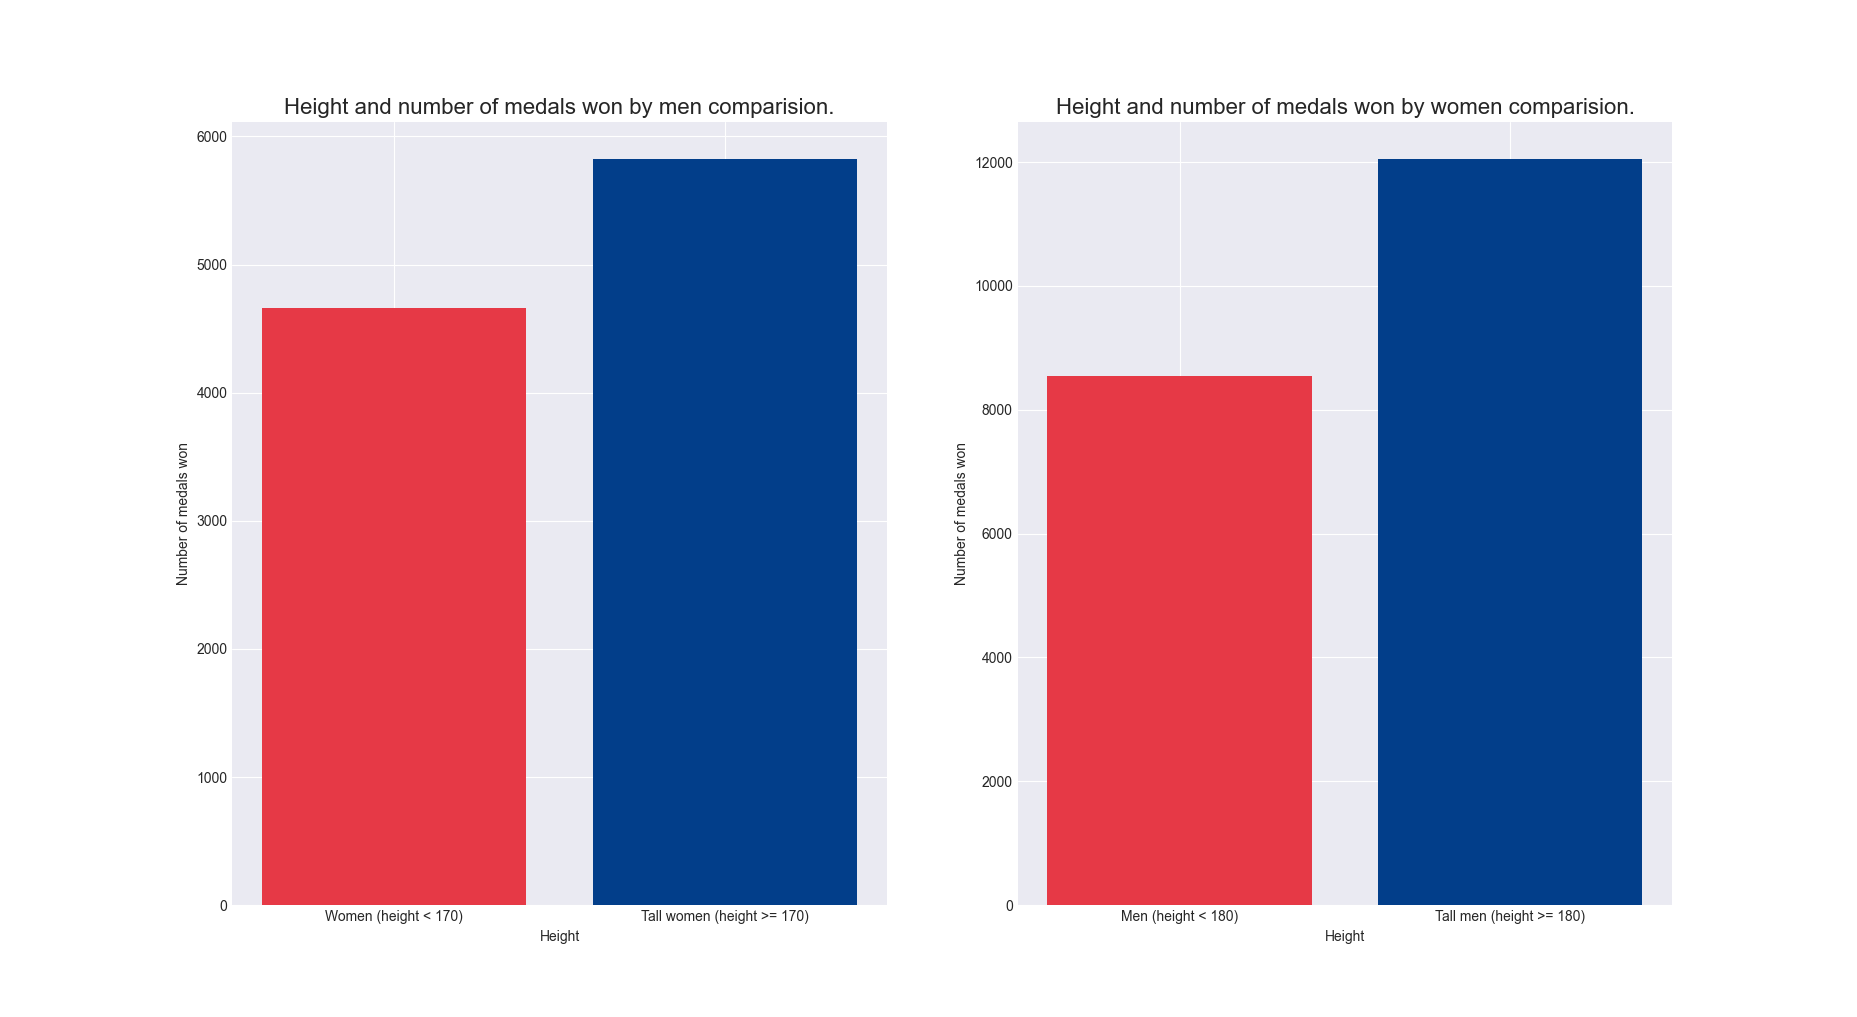
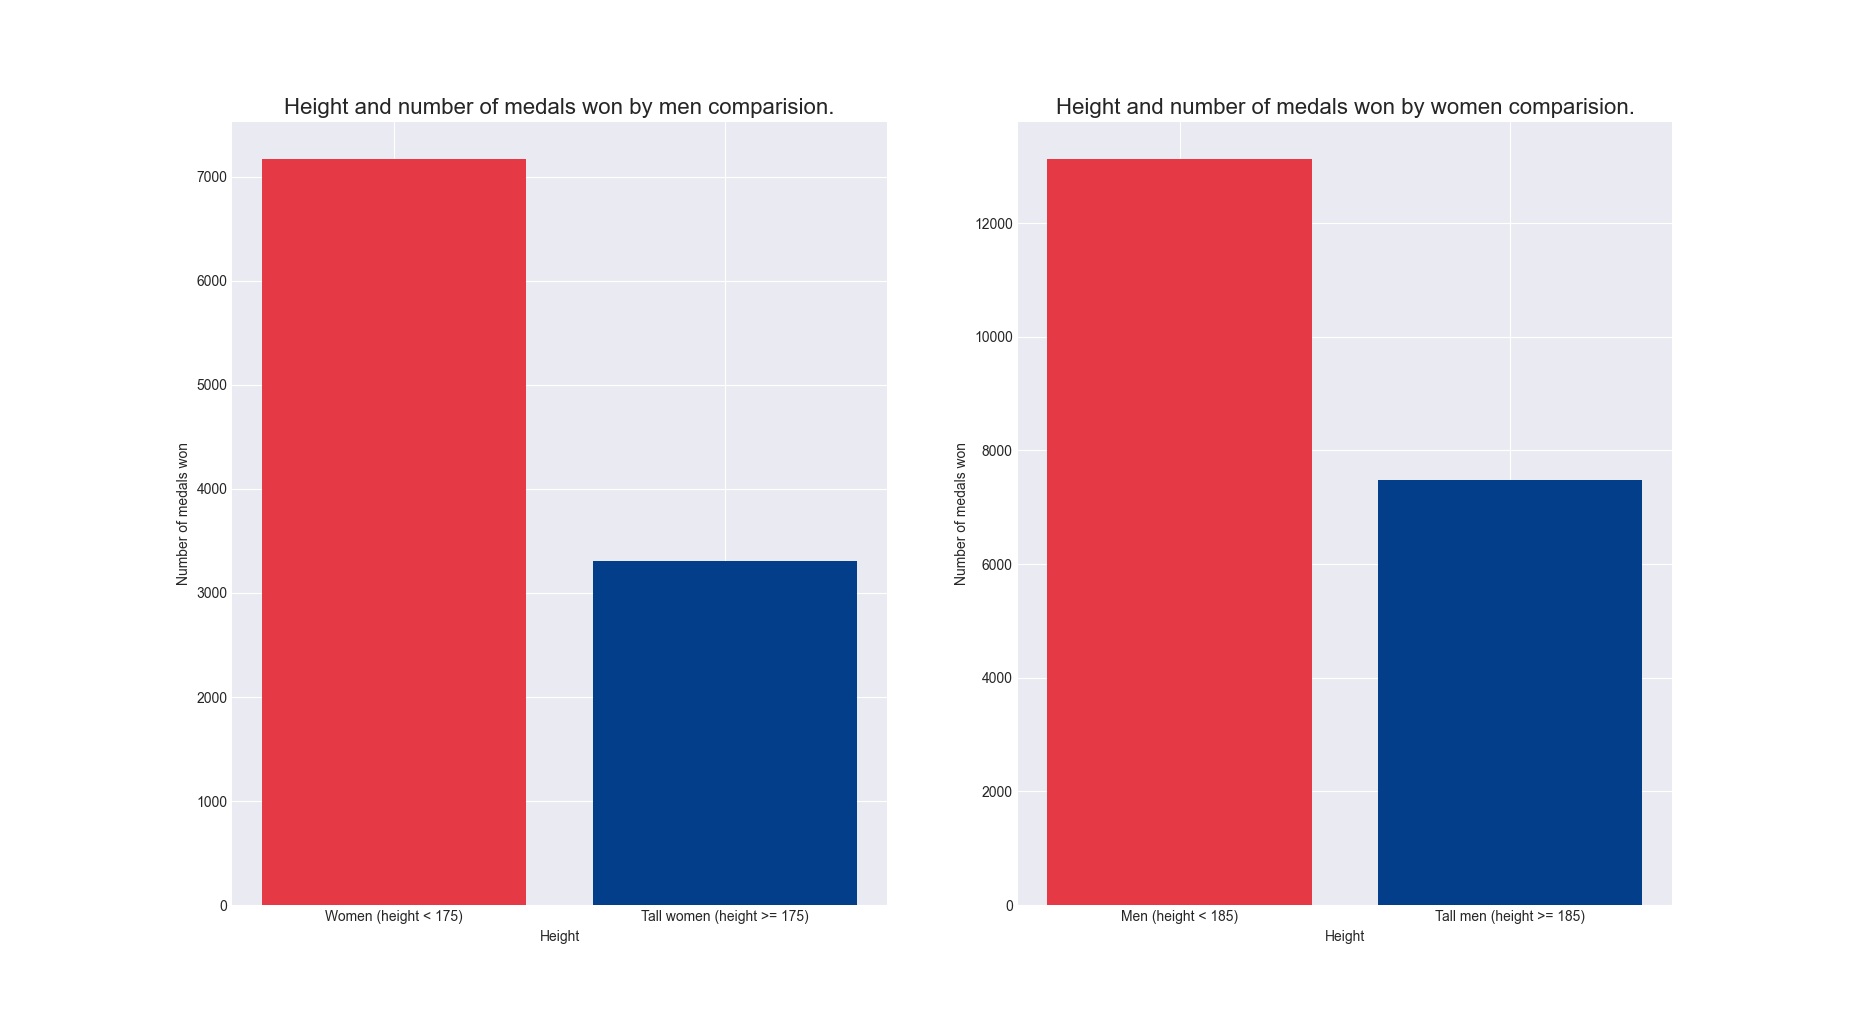
Height of tall person has been changed

diff --git a/height.py b/height.py
@@ -13,16 +13,16 @@ if __name__ == '__main__':
     print(f'AVG MAN HEIGHT: {avg_man_height}, AVG WOMAN HEIGHT: {avg_woman_height}')
 
     # MEN
-    tall_men = male[athlete_events["Height"] >= 180]
-    short_men = male[athlete_events["Height"] < 180]
+    tall_men = male[athlete_events["Height"] >= 185]
+    short_men = male[athlete_events["Height"] < 185]
 
     # with medals
     tall_men = tall_men[pd.notna(tall_men['Medal'])]['Medal'].count()
     short_men = short_men[pd.notna(short_men['Medal'])]['Medal'].count()
 
     # WOMEN
-    tall_women = female[athlete_events["Height"] >= 170]
-    short_women = female[athlete_events["Height"] < 170]
+    tall_women = female[athlete_events["Height"] >= 175]
+    short_women = female[athlete_events["Height"] < 175]
 
     # with medals
     tall_women = tall_women[pd.notna(tall_women['Medal'])]['Medal'].count()
@@ -31,7 +31,7 @@ if __name__ == '__main__':
     # Plot
     plt.style.use('seaborn-darkgrid')
     fig, (ax1, ax2) = plt.subplots(1, 2)
-    ax1.bar(['Women (height < 170)', 'Tall women (height >= 170)'],
+    ax1.bar(['Women (height < 175)', 'Tall women (height >= 175)'],
             [short_women, tall_women,],
             color=['#e63946', '#023e8a'])
     ax1.set_title("Height and number of medals won by women comparision.",
@@ -39,7 +39,7 @@ if __name__ == '__main__':
     ax1.set_xlabel("Height")
     ax1.set_ylabel("Number of medals won")
 
-    ax2.bar(['Men (height < 180)', 'Tall men (height >= 180)'],
+    ax2.bar(['Men (height < 185)', 'Tall men (height >= 185)'],
             [short_men, tall_men],
             color=['#e63946', '#023e8a'])
 
